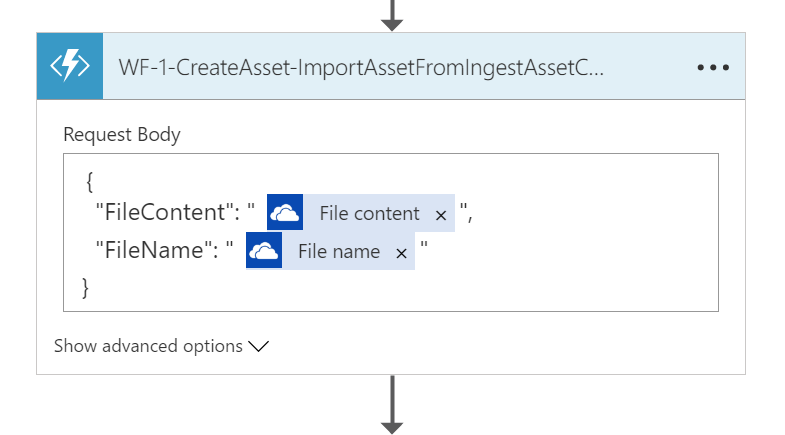
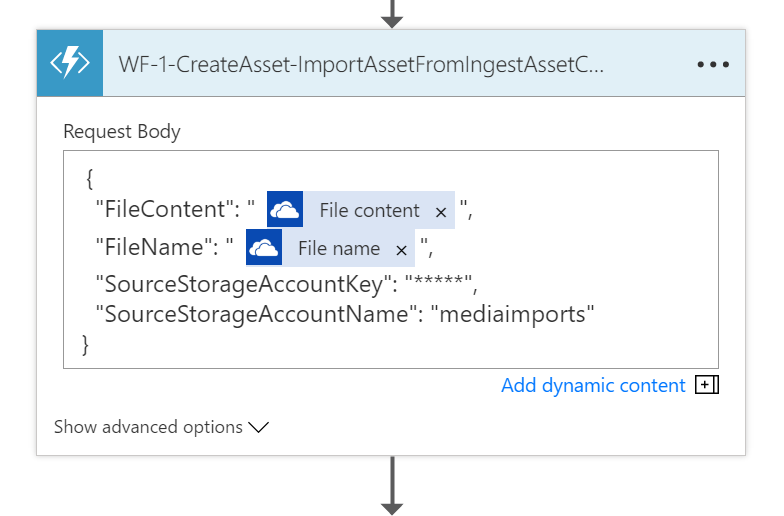
Updated documentation.

diff --git a/201-logic-app-workflow-1/README.md b/201-logic-app-workflow-1/README.md
@@ -20,9 +20,10 @@ to ingesting content directly from blob storage, encoding, and writing content b
   <a href="https://portal.azure.com/#create/Microsoft.Template/uri/https%3A%2F%2Fraw.githubusercontent.com%2FAzure-Samples%2Fmedia-services-dotnet-functions-integration%2Fmaster%2Fazuredeploy.json" target="_blank"><img src="http://azuredeploy.net/deploybutton.png"/></a>  
 
   * This deployment script will create an Azure Media Services account and an Azure Storage account 
-  * Please consider Consumption Plan or App Service Plan if you will deploy manually without the deployment script above
+  * Please consider Consumption Plan or App Service Plan if you will deploy manually
     * Consumption Plan – Timeout of function will be 5 mins
     * App Service Plan (Dedicated Plan) – There is no timeout (if AlwaysOn is enabled)
+  * If a deployment target resource group already contains an App Service Plan (Dedicated Plan), Azure Functions app will be contained in that App Service Plan (Dedicated Plan)
 3. Check App Settings of Azure Functions @ Azure Portal
   * Plaese makes sure if the following environment Key/Value pairs in the "App Settings" of your Azure Functions are correctly configured
 
@@ -40,103 +41,22 @@ to ingesting content directly from blob storage, encoding, and writing content b
 
   <a href="https://portal.azure.com/#create/Microsoft.Template/uri/https%3A%2F%2Fraw.githubusercontent.com%2Fshigeyf%2Fmedia-services-dotnet-functions-integration%2Fmaster%2F201-logic-app-workflow-1%2Fazuredeploy-logic-app-workflow.json" target="_blank"><img src="http://azuredeploy.net/deploybutton.png"/></a>  
 
-  * This deployment script will create a Logic App which is using the deployed Azure Functions above
+  * This deployment script will create a Logic App which is using the Azure Functions deployed above
   * Please refer the next section if you will deploy manually
 6. Update both API Connection's credentials for Outlook and OneDrve accounts
 
 
-## Setup media workflow with Azure Logic Apps manually
-This media workflow sample functions are implemented as a set of Azure Functions.
-These functions are sequentially arranged and called in the Azure Logic Apps as a workflow.
-Many pre-defined APIs for Logic Apps which are already provided from Microsoft and 3rd party partners can be combined for your workflow.
-
-Here is an example of media workflow with Azure Logic Apps.
-
-#### Step 1) A sample logic is triggered by OneDrive file
-Use "OneDrive - When a file is created" action.
-* Specify a watch folder to where IngestAssetConfig JSON file is uploaded
-* Specify a frequecy to watch the specified watch folder 
-* Note that when multiple JSON files will be uploaded then multiple workflows will be triggered 
-
-![Screen capture](images/WorkflowSample-Step1.png?raw=true)
-
-#### Step 2) Import Asset (Create empty asset and copy blobs)
-Use Azure Function - **WF-1-CreateAsset-ImportAssetFromIngestAssetConfig**
-* Specify "OneDrive – File content" as "FileContent" input
-* Specify "OneDrive – File name" as "FileName" input
-
-![Screen capture](images/WorkflowSample-Step2.png?raw=true)
-
-#### Step 3) Wait for Copy Blobs
-Use "Until" loop with **WF-1-CreateAsset-MonitorCopyBlob**
-* Wait until when **WF-1-CreateAsset-MonitorCopyBlob** - "CopyStatus" *is equal to* "2"
-* Specify "WF-1-CreateAsset-ImportAssetFromIngestAssetConfig – DestinationContainer" as "DestinationContainer" input
-
-![Screen capture](images/WorkflowSample-Step3.png?raw=true)
-
-#### Step 4) Finalize Creating Asset
-Use Azure Function **WF-1-CreateAsset-UpdateFinal**
-* Specify "WF-1-CreateAsset-ImportAssetFromIngestAssetConfig – AssetId" as "AssetId" input
-* Specify "OneDrive – File content" as "IngestAssetConfigJson" input
-
-![Screen capture](images/WorkflowSample-Step4.png?raw=true)
-
-#### Step 5) Check if Media Processing is required
-Use "Condition"
-* Use "WF-1-CreateAsset-UpdateFinal – MediaProcessRequired" as "Condition" parameter
-* IF "MediaProcessRequired" *is greater than* "0", goto Step 6
-* IF NO, goto Step 7
-
-![Screen capture](images/WorkflowSample-Step5.png?raw=true)  
-![Screen capture](images/WorkflowSample-Step6-C1YES.png?raw=true)  
-![Screen capture](images/WorkflowSample-Step6-C2NO.png?raw=true)  
-
-#### Step 6-1) [Condition=YES] Encode Asset
-Use **WF-2-ProcessAsset-SubmitEncodingJob**
-* Specify "WF-1-CreateAsset-UpdateFinal – AssetId" as "AssetId" input
-* Specify "OneDrive – File content" as "IngestAssetConfigJson" input
-
-#### Step 6-2) [Condition=YES] Wait for Encoding Job
-Use "Until" loop with **WF-2-ProcessAsset-MonitorJob**
-* Wait until when **WF-2-ProcessAsset-SubmitEncodingJob** - "JobState" *is greater than* "2"
-* Specify "WF-2-ProcessAsset-SubmitEncodingJob – JobId" as "JobId"
-
-![Screen capture](images/WorkflowSample-Step6-C1YES-P1.png?raw=true)
-
-#### Step 6-3) [Condition=YES] Check if Encoding Job is successfully done 
-Use "Condition"
-* Use "WF-2-ProcessAsset-MonitorJob – JobState" as "Condition" parameter
-* IF "JobState" *is equal to* "3", goto Step 6-4
-
-![Screen capture](images/WorkflowSample-Step6-C1YES-P2.png?raw=true)
-
-#### Step 6-4) [Condition=YES] Send an email
-Use **WF-5-PublishAsset**
-* Specify "WF-2-ProcessAsset-SubmitEncodingJob – OutputAssetId" as "OutputAssetId" input
-* Specify "OneDrive – File content" as "IngestAssetConfigJson" input
-
-#### Step 6-5) [Condition=YES] Send an email
-Use "Outlook.com - Send an email" to send an email
-
-#### Step 7-1) [Condition=NO] Publish Asset
-Use **WF-5-PublishAsset**
-* Specify "WF-1-CreateAsset-ImportAssetFromIngestAssetConfig – AssetId" as "AssetId" input
-* Specify "OneDrive – File content" as "IngestAssetConfigJson" input
-
-![Screen capture](images/WorkflowSample-Step6-C2NO_Details.png?raw=true)
-
-#### Step 7-2) [Condition=NO] Send an email
-Use "Outlook.com - Send an email" to send an email
-
-
 ## Run workflow
-1. Upload a source asset to a source container of your Azure Blob Storage account (specified with **SourceStorageAccountName**)
-2. Create IngestAssetConfig JSON file
+1. Upload a source asset to a source container of your Azure Blob Storage account (specified with **SourceStorageAccountName** parameter in the deployment parameters)
+2. Create IngestAssetConfig JSON file or use a sample file.
 3. Run workflow
-  * Upload IngestAssetConfig JSON file to /AMSImports folder of OneDrive
-  * Workflow will be automatically triggered in configured minutes (default - 3 minutes)
+  * Upload IngestAssetConfig JSON file to /AMSImports folder of your OneDrive account
+  * Workflow will be automatically triggered in cevery onfigured duration (default - 3 minutes)
+
 
 ## Sample **IngestAssetConfig** JSON
+Some sample **IngestAssetConfig** JSON files are contained in *sample-configs* folder.
+
 * Example #1 - Single bitrate media file with encoding to a multi-bitrate asset
 ```
 {
@@ -228,6 +148,94 @@ Use "Outlook.com - Send an email" to send an email
     }
 }
 ```
+
+
+## Setup media workflow with Azure Logic Apps manually (optional)
+This media workflow sample functions are implemented as a set of Azure Functions.
+These functions are sequentially arranged and called in the Azure Logic Apps as a workflow.
+Many pre-defined APIs for Logic Apps which are already provided from Microsoft and 3rd party partners can be combined for your workflow.
+
+Here is an example of media workflow with Azure Logic Apps.
+
+#### Step 1) A sample logic is triggered by OneDrive file
+Use "OneDrive - When a file is created" action.
+* Specify a watch folder to where IngestAssetConfig JSON file is uploaded
+* Specify a frequecy to watch the specified watch folder 
+* Note that when multiple JSON files will be uploaded then multiple workflows will be triggered 
+
+![Screen capture](images/WorkflowSample-Step1.png?raw=true)
+
+#### Step 2) Import Asset (Create empty asset and copy blobs)
+Use Azure Function - **WF-1-CreateAsset-ImportAssetFromIngestAssetConfig**
+* Specify "OneDrive – File content" as "FileContent" input
+* Specify "OneDrive – File name" as "FileName" input
+* Specify Azure Blob Storage Account Name for your source assets as "SourceStorageAccountName" input
+* Specify Azure Blob Storage Account Key as "SourceStorageAccountKey" input
+
+![Screen capture](images/WorkflowSample-Step2.png?raw=true)
+
+#### Step 3) Wait for Copy Blobs
+Use "Until" loop with **WF-1-CreateAsset-MonitorCopyBlob**
+* Wait until when **WF-1-CreateAsset-MonitorCopyBlob** - "CopyStatus" *is equal to* "2"
+* Specify "WF-1-CreateAsset-ImportAssetFromIngestAssetConfig – DestinationContainer" as "DestinationContainer" input
+
+![Screen capture](images/WorkflowSample-Step3.png?raw=true)
+
+#### Step 4) Finalize Creating Asset
+Use Azure Function **WF-1-CreateAsset-UpdateFinal**
+* Specify "WF-1-CreateAsset-ImportAssetFromIngestAssetConfig – AssetId" as "AssetId" input
+* Specify "OneDrive – File content" as "IngestAssetConfigJson" input
+
+![Screen capture](images/WorkflowSample-Step4.png?raw=true)
+
+#### Step 5) Check if Media Processing is required
+Use "Condition"
+* Use "WF-1-CreateAsset-UpdateFinal – MediaProcessRequired" as "Condition" parameter
+* IF "MediaProcessRequired" *is greater than* "0", goto Step 6
+* IF NO, goto Step 7
+
+![Screen capture](images/WorkflowSample-Step5.png?raw=true)  
+![Screen capture](images/WorkflowSample-Step6-C1YES.png?raw=true)  
+![Screen capture](images/WorkflowSample-Step6-C2NO.png?raw=true)  
+
+#### Step 6-1) [Condition=YES] Encode Asset
+Use **WF-2-ProcessAsset-SubmitEncodingJob**
+* Specify "WF-1-CreateAsset-UpdateFinal – AssetId" as "AssetId" input
+* Specify "OneDrive – File content" as "IngestAssetConfigJson" input
+
+#### Step 6-2) [Condition=YES] Wait for Encoding Job
+Use "Until" loop with **WF-2-ProcessAsset-MonitorJob**
+* Wait until when **WF-2-ProcessAsset-SubmitEncodingJob** - "JobState" *is greater than* "2"
+* Specify "WF-2-ProcessAsset-SubmitEncodingJob – JobId" as "JobId"
+
+![Screen capture](images/WorkflowSample-Step6-C1YES-P1.png?raw=true)
+
+#### Step 6-3) [Condition=YES] Check if Encoding Job is successfully done 
+Use "Condition"
+* Use "WF-2-ProcessAsset-MonitorJob – JobState" as "Condition" parameter
+* IF "JobState" *is equal to* "3", goto Step 6-4
+
+![Screen capture](images/WorkflowSample-Step6-C1YES-P2.png?raw=true)
+
+#### Step 6-4) [Condition=YES] Send an email
+Use **WF-5-PublishAsset**
+* Specify "WF-2-ProcessAsset-SubmitEncodingJob – OutputAssetId" as "OutputAssetId" input
+* Specify "OneDrive – File content" as "IngestAssetConfigJson" input
+
+#### Step 6-5) [Condition=YES] Send an email
+Use "Outlook.com - Send an email" to send an email
+
+#### Step 7-1) [Condition=NO] Publish Asset
+Use **WF-5-PublishAsset**
+* Specify "WF-1-CreateAsset-ImportAssetFromIngestAssetConfig – AssetId" as "AssetId" input
+* Specify "OneDrive – File content" as "IngestAssetConfigJson" input
+
+![Screen capture](images/WorkflowSample-Step6-C2NO_Details.png?raw=true)
+
+#### Step 7-2) [Condition=NO] Send an email
+Use "Outlook.com - Send an email" to send an email
+
+
 
 
 # Documentation - Media Workflow WF-x sample
@@ -322,8 +330,8 @@ IngestAssetConfig (v1) containes:
 * Input – JSON format data
   * *FileName* : **IngestAssetConfig** filename for target asset
   * *FileContent* : **IngestAssetConfig** JSON for target asset
-  * *SourceStorageAccountName* : Azure Storage Account Name for source assets
-  * *SourceStorageAccountKey* : Azure Storage Account Key for source assets
+  * *SourceStorageAccountName* : Azure Blob Storage Account Name for source assets
+  * *SourceStorageAccountKey* : Azure Blob Storage Account Key for source assets
 * Output – JSON format data
   * *AssetId* : Created AMS Asset Id (e.g. nb:cid:UUID:2f7e6884-2637-42f8-a336-97dc04942e69)
   * *SourceContainer* : Azure Blob Storage container name of target asset
